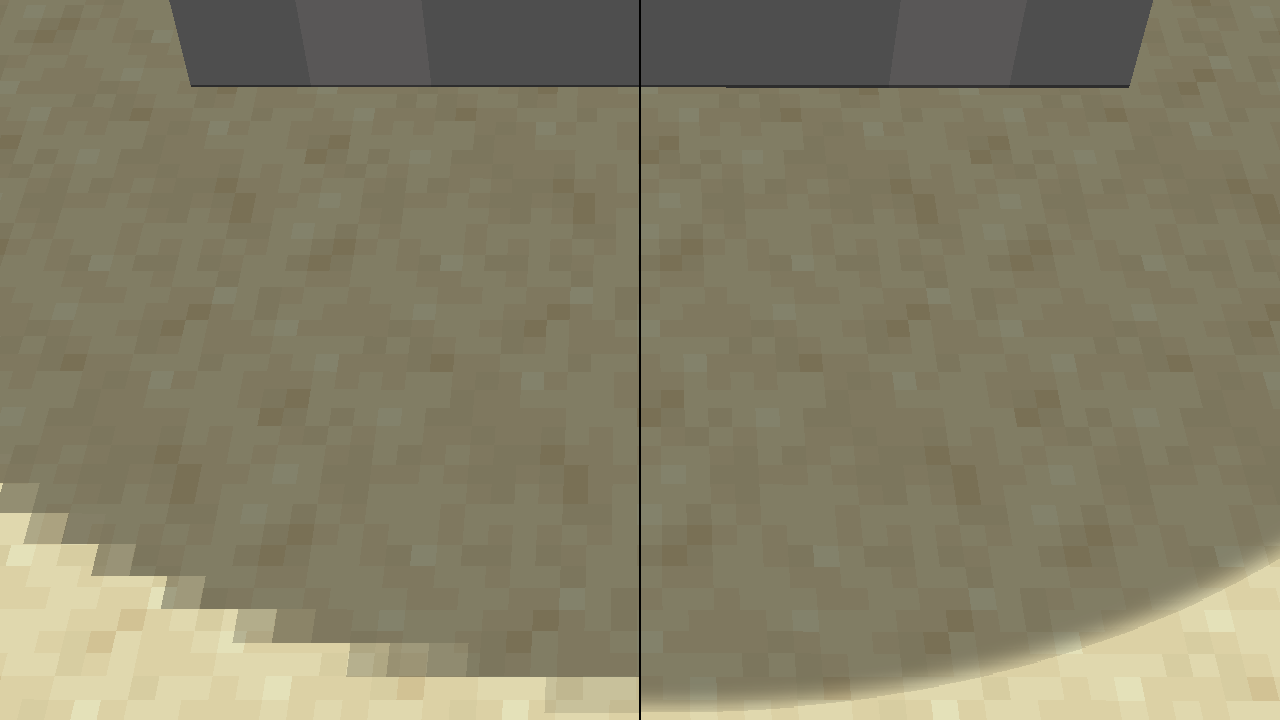
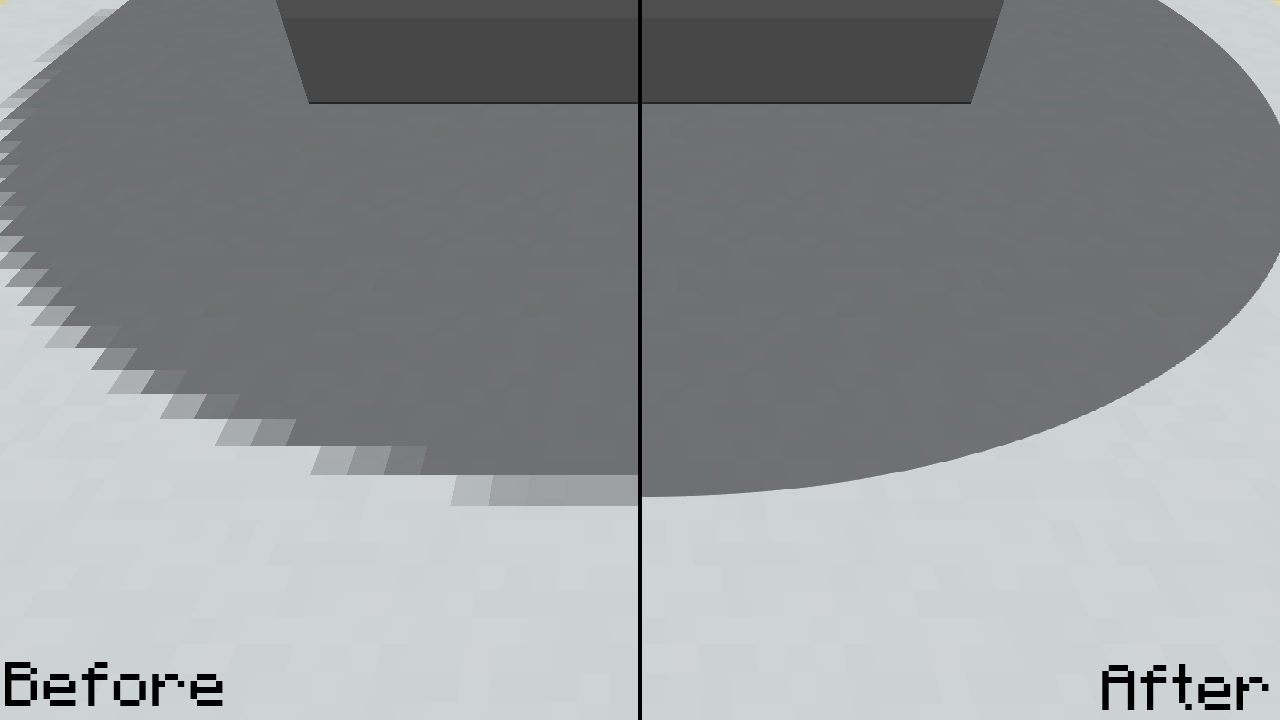
update time

diff --git a/README.MD b/README.MD
@@ -3,16 +3,16 @@
 Smooth Minecraft Shadows is the world's least useful Minecraft resource pack! It makes shadows under mobs super fancy and smooth.
 Please credit me when sharing the file.
 
-Read my non-existing ["license"](LICENSE.MD).
+Go to the [Downloads](https://github.com/TheThunderGuyS/SmoothMinecraftShadows/releases).
+
+Read my non-existing ["license"](LICENSE.md).
 
 See the [Code of Conduct](CODE_OF_CONDUCT.md).
 
-Go to the [Downloads](https://github.com/TheThunderGuyS/SmoothMinecraftShadows/releases).
+Here is a comparison of before and after enabling the pack:
+![oof the image didn't load](comparison.png)
 
-Here is a comparison; a before and after:
-![oof the image didn't load](Comparison.png)
-
-The latest release is `1.0.2` for Minecraft: Java Edition `1.14.4`.
+The latest release is `1.1` for Minecraft: Java Edition `1.14.4`.
 
 Installation instructions:
  1. Download the pack
@@ -20,14 +20,17 @@ Installation instructions:
  3. Enable it and Enjoy!
 
 **********
- ![](Preview.png)
+ ![](banner.png)
 
 Changelog:
 
-- 1.0.2 - September 18th, 2019
+- 1.1 - September 25th, 2019:
+  - The shadow texture is no longer blurred. This better fits the style of the game and won't make the shadow turn white at the ends.
+
+- 1.0.2 - September 18th, 2019:
   - The pack no longer houses the entire GitHub repository so no more random useless updates with readme changes!
   
-- 1.0.1.3 - September 7th, 2019
+- 1.0.1.3 - September 7th, 2019:
   - Updated `LICENSE.MD` to version 1.1.2
 
 - 1.0.1.2 - August 29th, 2019:
@@ -60,4 +63,4 @@ Changelog:
   - Initial private release in the form of `"4kShadows"`.
   
 ********************  
-**End of changelog**
+**End of Changelog**

diff --git a/CODE_OF_CONDUCT.md b/CODE_OF_CONDUCT.md
@@ -1,5 +1,5 @@
 # Code of Conduct
-> TheThunderGuyS v1.0.1, September 18th, 2019.
+> TheThunderGuyS v1.0.1, September 17th, 2019.
 **********************
 # Summary
 *Smooth Minecraft Shadows* is a fan project created for all to share, contribute to and be productive in. 
